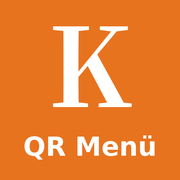
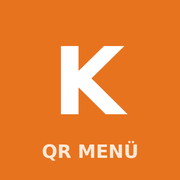
QR menü Sürüm 23: simge diğer uygulamalarla aynı stilde (turuncu, K, QR MENÜ)
Claude-Session: https://claude.ai/code/session_01MnFcxMQvWRhJcuEA4Wt4Dq

Changed region(s): [[0.2778, 0.1389, 0.75, 0.6389], [0.4167, 0.75, 0.8611, 0.8889], [0.1111, 0.75, 0.3889, 0.9167]]

diff --git a/menu/index.html b/menu/index.html
@@ -283,7 +283,7 @@ html[lang=ar] .ccat,html[lang=zh] .ccat,html[lang=ja] .ccat,html[lang=ko] .ccat{
     <p><a href="https://maps.google.com/?q=Kanaat+Lokantas%C4%B1+Selmanipak+Cad.+No:9+%C3%9Csk%C3%BCdar+%C4%B0stanbul" target="_blank" rel="noopener">Selmanipak Cad. No:9, Üsküdar, İstanbul</a></p>
     <p><a href="tel:+902163415444" dir="ltr">+90 216 341 54 44</a></p>
     <p><a class="igfoot" href="https://www.instagram.com/kanaatlokantasi1933/" target="_blank" rel="noopener" dir="ltr"><svg viewBox="0 0 24 24" width="16" height="16" fill="none" stroke="currentColor" stroke-width="2" aria-hidden="true"><rect x="3" y="3" width="18" height="18" rx="5"/><circle cx="12" cy="12" r="4"/><circle cx="17.5" cy="6.5" r="1" fill="currentColor"/></svg>@kanaatlokantasi1933</a></p>
-    <p class="ver" dir="ltr">Sürüm 22 · 05.11.2026</p>
+    <p class="ver" dir="ltr">Sürüm 23 · 05.11.2026</p>
   </div>
 </footer>
 
